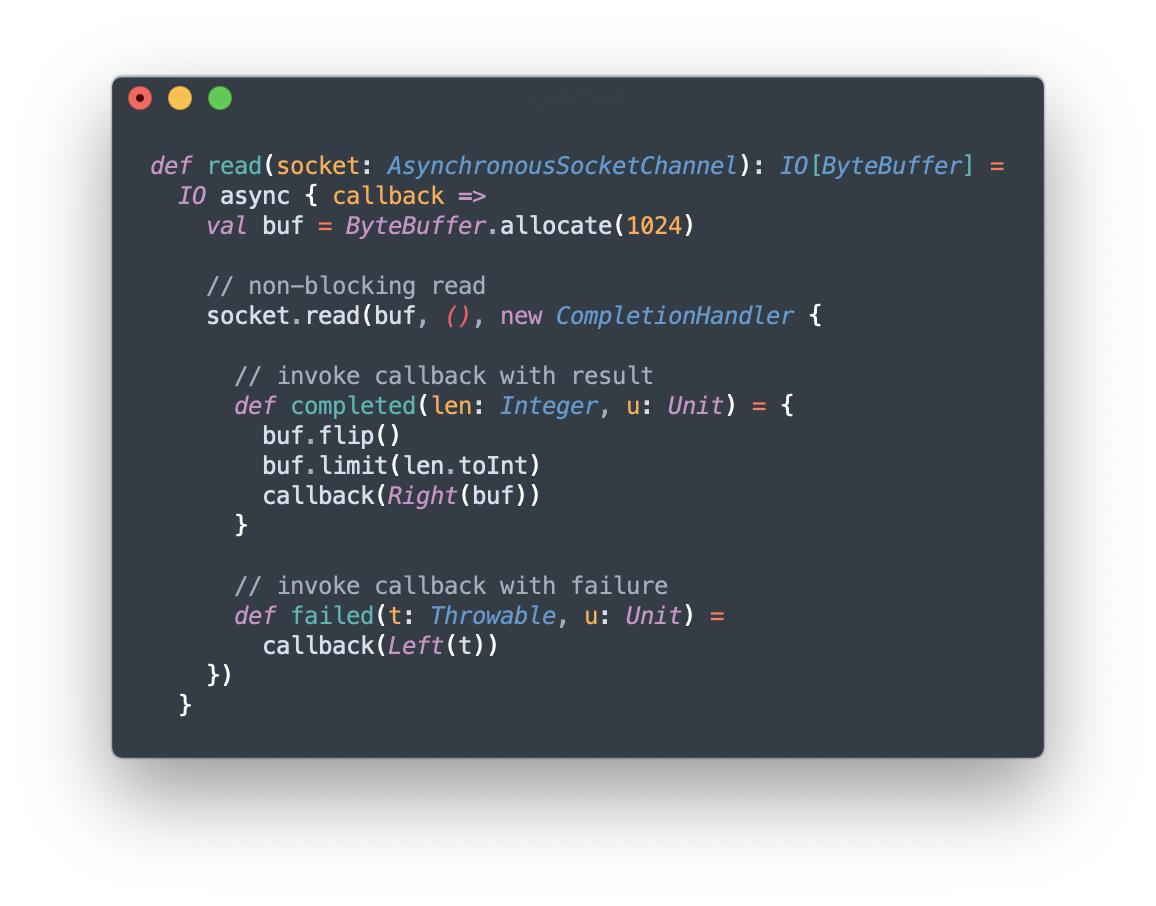
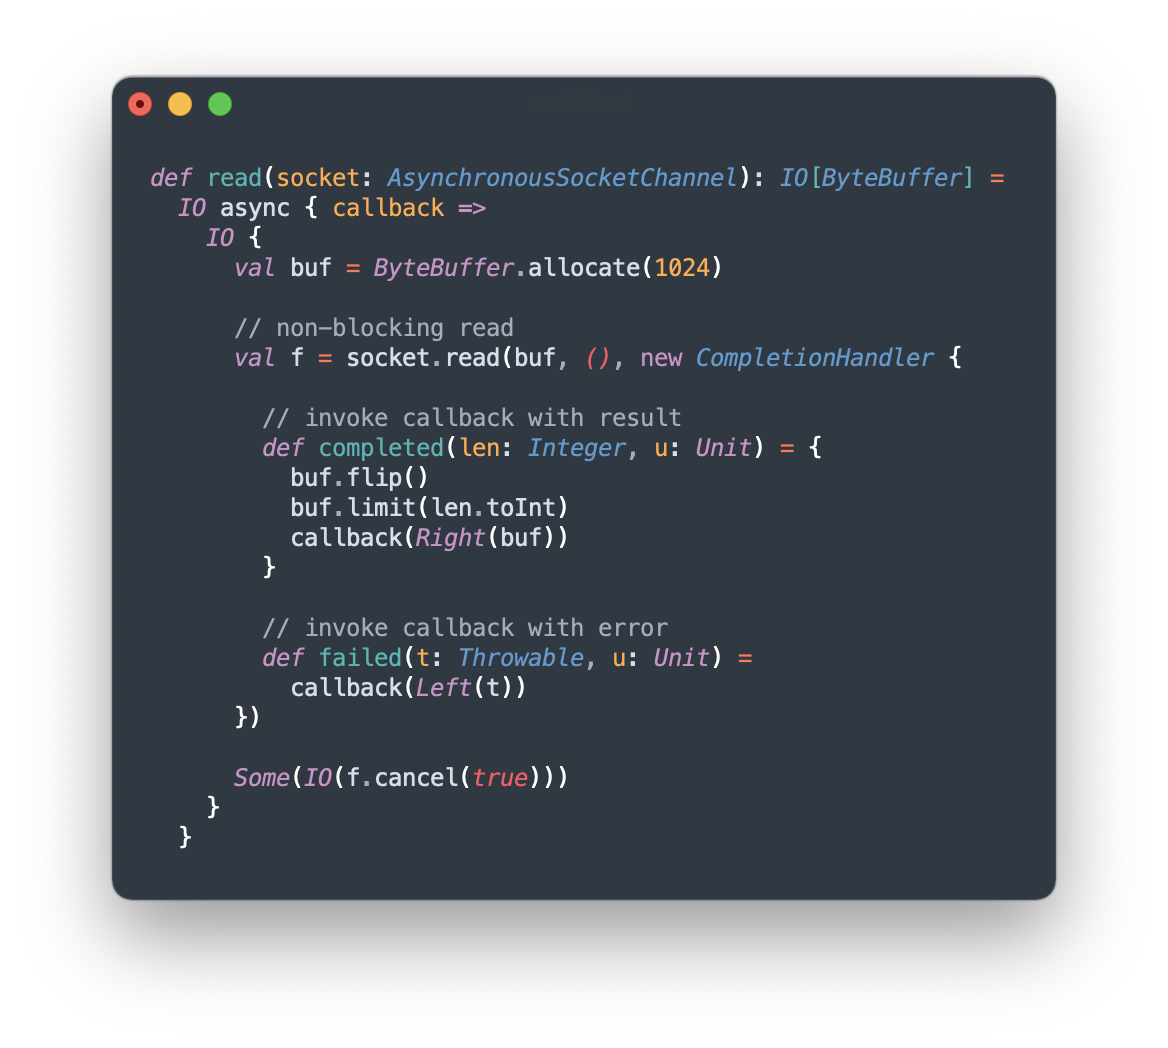
Fixed screenshots and also many other things

diff --git a/website/pages/en/index.js b/website/pages/en/index.js
@@ -57,7 +57,7 @@ class HomeSplash extends React.Component {
                 <div className="inner">
                     <ProjectTitle tagline={siteConfig.tagline} title={siteConfig.title} />
                     <code className="hljs css language-sbt">
-                        <span className="hljs-string">"org.typelevel"</span> %% <span className="hljs-string">"cats-effect"</span> % <span className="hljs-string">"2.3.0"</span>
+                        <span className="hljs-string">"org.typelevel"</span> %% <span className="hljs-string">"cats-effect"</span> % <span className="hljs-string">"3.0.0"</span>
                     </code>
                     <PromoSection>
                         <Button target="_blank" href="https://scastie.scala-lang.org/FMRL46KyQYKUElZEnaqKdQ">Try It!</Button>
@@ -87,6 +87,27 @@ class Index extends React.Component {
             </Container>
         );
 
+/*
+def sleepPrint(word: String, name: String, rand: Random[IO]) =
+  for {
+    delay <- rand.betweenInt(200, 700)
+    _     <- IO.sleep(delay.millis)
+    _     <- IO.println(s"$word, $name")
+  } yield ()
+
+for {
+  rand <- Random.scalaUtilRandom[IO]
+  _    <- IO.println("What is your name?")
+  name <- IO.readln
+
+  english <- sleepPrint("Hello", name, rand).foreverM.start
+  french  <- sleepPrint("Bonjour", name, rand).foreverM.start
+  spanish <- sleepPrint("Hola", name, rand).foreverM.start
+
+  _ <- IO.sleep(5.seconds)
+  _ <- english.cancel >> french.cancel >> spanish.cancel
+} yield ()
+ */
         const Hook = () => (
             <Block background="light" align="left">
                 {[
@@ -106,7 +127,7 @@ class Index extends React.Component {
                     {
                         content:
                             "Cats Effect uniquely defines what it means to be a functional effect. This gives it unmatched expressive and compositional power, unlocking an entirely ecosystem of extensibility and enriching your applications with the ability to re-mix the runtime system *itself*. This brings the full power of the Cats ecosystem to bear, enabling elegant answers to thorny problems like distributed tracing, dependency injection, error reporting along multiple channels, and much more!\n\n Cats Effect's system of abstractions are the culmination of years of research and experience in how to best apply functional programming concepts in real-world applications on the JVM and JavaScript, and particularly how to express such ideas within Scala.",
-                        image: `${baseUrl}img/cats-effect-1.0-hierarchy.svg`,
+                        image: `${baseUrl}img/cats-effect-3.0-hierarchy.svg`,
                         imageAlign: 'left',
                         title: 'Powerful Abstract Calculus',
                     },
@@ -193,7 +214,7 @@ class Index extends React.Component {
                     <div className="logos">{showcase}</div>
                     <div className="disclaimer">(nothing in this section should be construed as a partnership or endorsement, implied or otherwise)</div>
                     <div className="more-users">
-                        <a className="button" href={pageUrl('users.html')}>
+                        <a className="button" href={pageUrl('users')}>
                             More {siteConfig.title} Users
                         </a>
                     </div>
@@ -201,6 +222,87 @@ class Index extends React.Component {
             );
         };
 
+/*
+def read(socket: AsynchronousSocketChannel): IO[ByteBuffer] =
+  IO async { callback =>
+    IO {
+      val buf = ByteBuffer.allocate(1024)
+
+      // non-blocking read
+      val f = socket.read(buf, (), new CompletionHandler {
+
+        // invoke callback with result
+        def completed(len: Integer, u: Unit) = {
+          buf.flip()
+          buf.limit(len.toInt)
+          callback(Right(buf))
+        }
+
+        // invoke callback with error
+        def failed(t: Throwable, u: Unit) =
+          callback(Left(t))
+      })
+
+      Some(IO(f.cancel(true)))
+    }
+  }
+
+
+def fetchAllS3(
+    client: S3Client,
+    bucket: String,
+    names: List[String])
+    : IO[List[String]] =
+  names parTraverse { name =>
+    client.getObjectAsString(bucket, name)
+  }
+
+
+java.lang.Throwable: A runtime exception has occurred
+    at org.simpleapp.examples.Main$.b(Main.scala:28)
+    at org.simpleapp.examples.Main$.a(Main.scala:25)
+    at org.simpleapp.examples.Main$.$anonfun$foo$11(Main.scala:37)
+    at map @ org.simpleapp.examples.Main$.$anonfun$foo$10(Main.scala:37)
+    at flatMap @ org.simpleapp.examples.Main$.$anonfun$foo$8(Main.scala:36)
+    at flatMap @ org.simpleapp.examples.Main$.$anonfun$foo$6(Main.scala:35)
+    at flatMap @ org.simpleapp.examples.Main$.$anonfun$foo$4(Main.scala:34)
+    at flatMap @ org.simpleapp.examples.Main$.$anonfun$foo$2(Main.scala:33)
+    at flatMap @ org.simpleapp.examples.Main$.foo(Main.scala:32)
+    at flatMap @ org.simpleapp.examples.Main$.program(Main.scala:42)
+    at as @ org.simpleapp.examples.Main$.run(Main.scala:48)
+    at main$ @ org.simpleapp.examples.Main$.main(Main.scala:22)
+
+
+def endpoint[F[_]: Spawn](
+    server: Server[F],
+    body: Array[Byte] => F[Array[Byte]])
+    : F[Unit] = {
+
+  def handle(conn: Connection[F]): F[Unit] =
+    for {
+      request <- conn.read
+      response <- body(request)
+      _ <- conn.write(response)
+    } yield ()
+
+  MonadCancel[F] uncancelable { poll =>
+    poll(server.accept) flatMap { conn =>
+      poll(handle(conn)).guarantee(conn.close).start
+    }
+  }
+
+  handler.foreverM
+}
+
+
+val first = IO(computeFirst())
+val second = IO(computeSecond())
+
+for {
+  a <- first
+  b <- second
+} yield ()
+ */
         return (
             <div>
                 <HomeSplash siteConfig={siteConfig} language={language} />

diff --git a/website/pages/en/versions.js b/website/pages/en/versions.js
@@ -32,7 +32,7 @@ function Versions(props) {
               <tr>
                 <th>2.x</th>
                 <td>
-                  <a href={baseUrl + '2.x/installation'}>Documentation</a>
+                  <a href={baseUrl + '2.x/getting-started'}>Documentation</a>
                 </td>
                 <td>
                   <a href={'/cats-effect/api/2.x'}>Scaladoc</a>
@@ -41,7 +41,7 @@ function Versions(props) {
               <tr>
                 <th>3.x</th>
                 <td>
-                  <a href={baseUrl + 'installation'}>Documentation</a>
+                  <a href={baseUrl + 'getting-started'}>Documentation</a>
                 </td>
                 <td>
                   <a href={'/cats-effect/api/3.x'}>Scaladoc</a>

diff --git a/website/core/Footer.js b/website/core/Footer.js
@@ -30,7 +30,7 @@ class Footer extends React.Component {
           </a>
           <div>
             <h5>Docs</h5>
-            <a href={this.docUrl('installation', this.props.language)}>
+            <a href={this.docUrl('getting-started', this.props.language)}>
               Getting Started
             </a>
             <a href={this.docUrl('guides/tutorial', this.props.language)}>

diff --git a/website/siteConfig.js b/website/siteConfig.js
@@ -3,7 +3,7 @@
 
 const siteConfig = {
   title: 'Cats Effect', // Title for your website.
-  tagline: 'The purely functional runtime for Scala',
+  tagline: 'The pure asynchronous runtime for Scala',
   url: 'https://typelevel.org', // Your website URL
   baseUrl: '/cats-effect/',
   repoUrl: 'https://github.com/typelevel/cats-effect',
